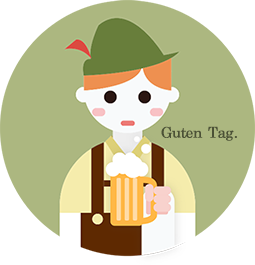
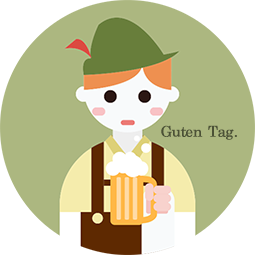
Preload language images, apply transition

diff --git a/src/pages/language/template.html b/src/pages/language/template.html
@@ -1,4 +1,5 @@
 <main class="page-main container-fluid" ng-controller="LanguageCtrl as $ctrl">
+	<div class="lang-preloader" ng-repeat="lang in $ctrl.datalist" ng-class="lang"></div>
 	<div class="paper-group tall">
 		<div class="paper-title language">
 			<p class="paper-title_body language">
@@ -20,23 +21,26 @@
 			<div class="right-bracket"> ]</div>
 		</div>
 		<div class="select-list language">
-			<div class="two-data">
-				<div class="select-img first" ng-click="$ctrl.selectData(0)" ng-style="$ctrl.rmGray(0)">
-					<img src="../../media/language/japanese-icon.png" alt="">
+			<div class="three-data">
+				<div class="select-img" ng-click="$ctrl.selectData(0)" ng-style="$ctrl.rmGray(0)">
+					<img src="../../media/language/japanese-icon.png">
 				</div>
-				<div class="select-img second" ng-click="$ctrl.selectData(1)" ng-style="$ctrl.rmGray(1)">
-					<img src="../../media/language/english-icon.png" alt="">
+				<div class="select-img" ng-click="$ctrl.selectData(1)" ng-style="$ctrl.rmGray(1)">
+					<img src="../../media/language/korean-icon.png">
+				</div>
+				<div class="select-img" ng-click="$ctrl.selectData(2)" ng-style="$ctrl.rmGray(2)">
+					<img src="../../media/language/english-icon.png">
 				</div>
 			</div>
 			<div class="three-data">
-				<div class="select-img third" ng-click="$ctrl.selectData(2)" ng-style="$ctrl.rmGray(2)">
-					<img src="../../media/language/french-icon.png" alt="">
+				<div class="select-img" ng-click="$ctrl.selectData(3)" ng-style="$ctrl.rmGray(3)">
+					<img src="../../media/language/french-icon.png">
 				</div>
-				<div class="select-img forth" ng-click="$ctrl.selectData(3)" ng-style="$ctrl.rmGray(3)">
-					<img src="../../media/language/chinese-icon.png" alt="">
+				<div class="select-img" ng-click="$ctrl.selectData(4)" ng-style="$ctrl.rmGray(4)">
+					<img src="../../media/language/chinese-icon.png">
 				</div>
-				<div class="select-img fifth" ng-click="$ctrl.selectData(4)" ng-style="$ctrl.rmGray(4)">
-					<img src="../../media/language/german-icon.png" alt="">
+				<div class="select-img" ng-click="$ctrl.selectData(5)" ng-style="$ctrl.rmGray(5)">
+					<img src="../../media/language/german-icon.png">
 				</div>
 			</div>
 		</div>

diff --git a/src/style/pages/select.less b/src/style/pages/select.less
@@ -1,47 +1,48 @@
 @import (reference) '../index';
 
-
-.big-bracket{
-  width: 235 / 16rem;
-  font-size: 40.2 / 16rem;
-  color: #f5b9bd;
-  margin : 0 auto;
-  position : relative;
-  line-height: 1;
-  .left-bracket{
-    float: left;
-    display: inline-block;
-    position: absolute;
-    top: 0;
-    left: 0;
-  }
-  .right-bracket{
-    float: right;
-    display: inline-block;
-    position: absolute;
-    top: 0;
-    right: 0;
-  }
-  .select-title{
-    text-align: center;
-    font-family: "Times New Roman", serif;
-    font-size: 29.3 / 16rem;
-    line-height: 40.2 / 29.3;
-    font-style: italic;
-  }
+.big-bracket {
+	width: 235 / 16rem;
+	font-size: 40.2 / 16rem;
+	color: #f5b9bd;
+	margin: 0 auto;
+	position: relative;
+	line-height: 1;
+	.left-bracket {
+		float: left;
+		display: inline-block;
+		position: absolute;
+		top: 0;
+		left: 0;
+	}
+	.right-bracket {
+		float: right;
+		display: inline-block;
+		position: absolute;
+		top: 0;
+		right: 0;
+	}
+	.select-title {
+		text-align: center;
+		font-family: "Times New Roman", serif;
+		font-size: 29.3 / 16rem;
+		line-height: 40.2 / 29.3;
+		font-style: italic;
+	}
 }
-.select-list{
-  margin-top: 62.5 / 16rem;
-  text-align: center;
-  .select-img{
-    display: inline-block;
-    width: 132 / 16rem;
-    height: auto;
-  }
-  .second{
-    margin-left: 35 / 16rem;
-  }
-  .forth, .fifth{
-    margin-left: 23.5 / 16rem;
-  }
+
+.select-list {
+	margin-top: 62.5 / 16rem;
+	text-align: center;
+	.select-img {
+		width: 132 / 16rem;
+		height: auto;
+		display: inline-block;
+		transition: opacity 300ms ease;
+	}
+	.second {
+		margin-left: 35 / 16rem;
+	}
+	.forth, .fifth {
+		margin-left: 23.5 / 16rem;
+	}
 }

diff --git a/src/pages/long-comment/index.js b/src/pages/long-comment/index.js
@@ -1,25 +1,17 @@
 import param from 'jquery-param';
 
-function LongCommentCtrl(CacheSvc, $http, $state) {
+function LongCommentCtrl(ToastSvc, CacheSvc, $http, $state) {
 	this.content = null;
-	/*
-		$http({
-			method: 'POST',
-			url: ajax_url,
-			data: param({
-				action: 'get_content_data'
-			})
-		}).then((response) => {
-			console.log(response);
-			if (response.data.success === true) {
-				this.image = response.data.url;
-				this.login = response.data.login;
-			}
-		});
-	*/  // 따로 봐야하고 이부분은
+	this.byte = 0;
+
+	CacheSvc.get('get_tour_comment').then((response) => {
+		if (response.data.success) {
+			this.content = response.data.comment;
+		}
+	});
 
 	this.byteCheck = function () {
-		if (this.content === null) {
+		if (! this.content) {
 			return '0/300byte';
 		}
 
@@ -40,27 +32,28 @@ function LongCommentCtrl(CacheSvc, $http, $state) {
 		if (this.byte > 300) {
 			return;
 		}
+
 		$http({
 			method: 'POST',
 			url: ajax_url,
 			data: param({
-				action: '',
-				comments: this.comment
+				action: 'tour_comment',
+				comment: this.content
 			})
 		}).then((response) => {
-			console.log('');
-
+			console.log(response);
 			if (response.data.success) {
-				$state.go('main');
+				CacheSvc.reset('get_tour_comment');
+				$state.go('matching-main');
 			}
 			else {
-				console.log('Not Good');
+				ToastSvc.toggle('Failed to update tour comment');
 			}
 		});
 	}
 }
 
-LongCommentCtrl.$inject = ['CacheSvc', '$http', '$state'];
+LongCommentCtrl.$inject = ['ToastSvc', 'CacheSvc', '$http', '$state'];
 
 
 export default angular.module('touriends.page.long-comment', ['touriends']).controller('LongCommentCtrl', LongCommentCtrl).name;

diff --git a/src/style/pages/language.less b/src/style/pages/language.less
@@ -1,11 +1,38 @@
 @import (reference) '../index';
 
+.lang-preloader {
+	width: 1px;
+	height: 0;
+	pointer-events: none;
+	opacity: .1;
+	user-select: none;
+
+	&.japanese {
+		background-image: url('../../media/language/japanese.png');
+	}
+	&.korean {
+		background-image: url('../../media/language/korean.png');
+	}
+	&.english {
+		background-image: url('../../media/language/english.png');
+	}
+	&.french {
+		background-image: url('../../media/language/french.png');
+	}
+	&.chinese {
+		background-image: url('../../media/language/chinese.png');
+	}
+	&.german {
+		background-image: url('../../media/language/german.png');
+	}
+}
+
 .paper-title_body.language {
 	color: @red;
 }
 
 .select-list.language .select-img {
-	opacity: .5;
+	opacity: .3;
 }
 
 .select-title.language {
@@ -15,8 +42,13 @@
 
 .paper-image_body.language {
 	background-image: url('../../media/theme/empty-graphic.png');
+	transition: background-image 300ms ease;
+
 	&.japanese {
 		background-image: url('../../media/language/japanese.png');
+	}
+	&.korean {
+		background-image: url('../../media/language/korean.png');
 	}
 	&.english {
 		background-image: url('../../media/language/english.png');

diff --git a/src/pages/main/index.js b/src/pages/main/index.js
@@ -7,10 +7,12 @@ function MainCtrl(CacheSvc, OverlaySvc, $state) {
 		let where = CacheSvc.get('get_place');
 		let lang = CacheSvc.get('get_language');
 		let theme = CacheSvc.get('get_theme');
+		let comment = CacheSvc.get('get_tour_comment');
 		await when;
 		await where;
 		await lang;
 		await theme;
+		await comment;
 
 		// 끗
 		console.log('done!');

diff --git a/src/pages/language/index.js b/src/pages/language/index.js
@@ -11,7 +11,7 @@ class LanguageCtrl {
 		this.$http = $http;
 		this.$state = $state;
 
-		this.datalist = ['japanese', 'english', 'french', 'chinese', 'german'];
+		this.datalist = ['japanese', 'korean', 'english', 'french', 'chinese', 'german'];
 		this.dataChecked = [false, false, false, false, false];
 		this.simage = null;
 		this.simageCnt = 0;
